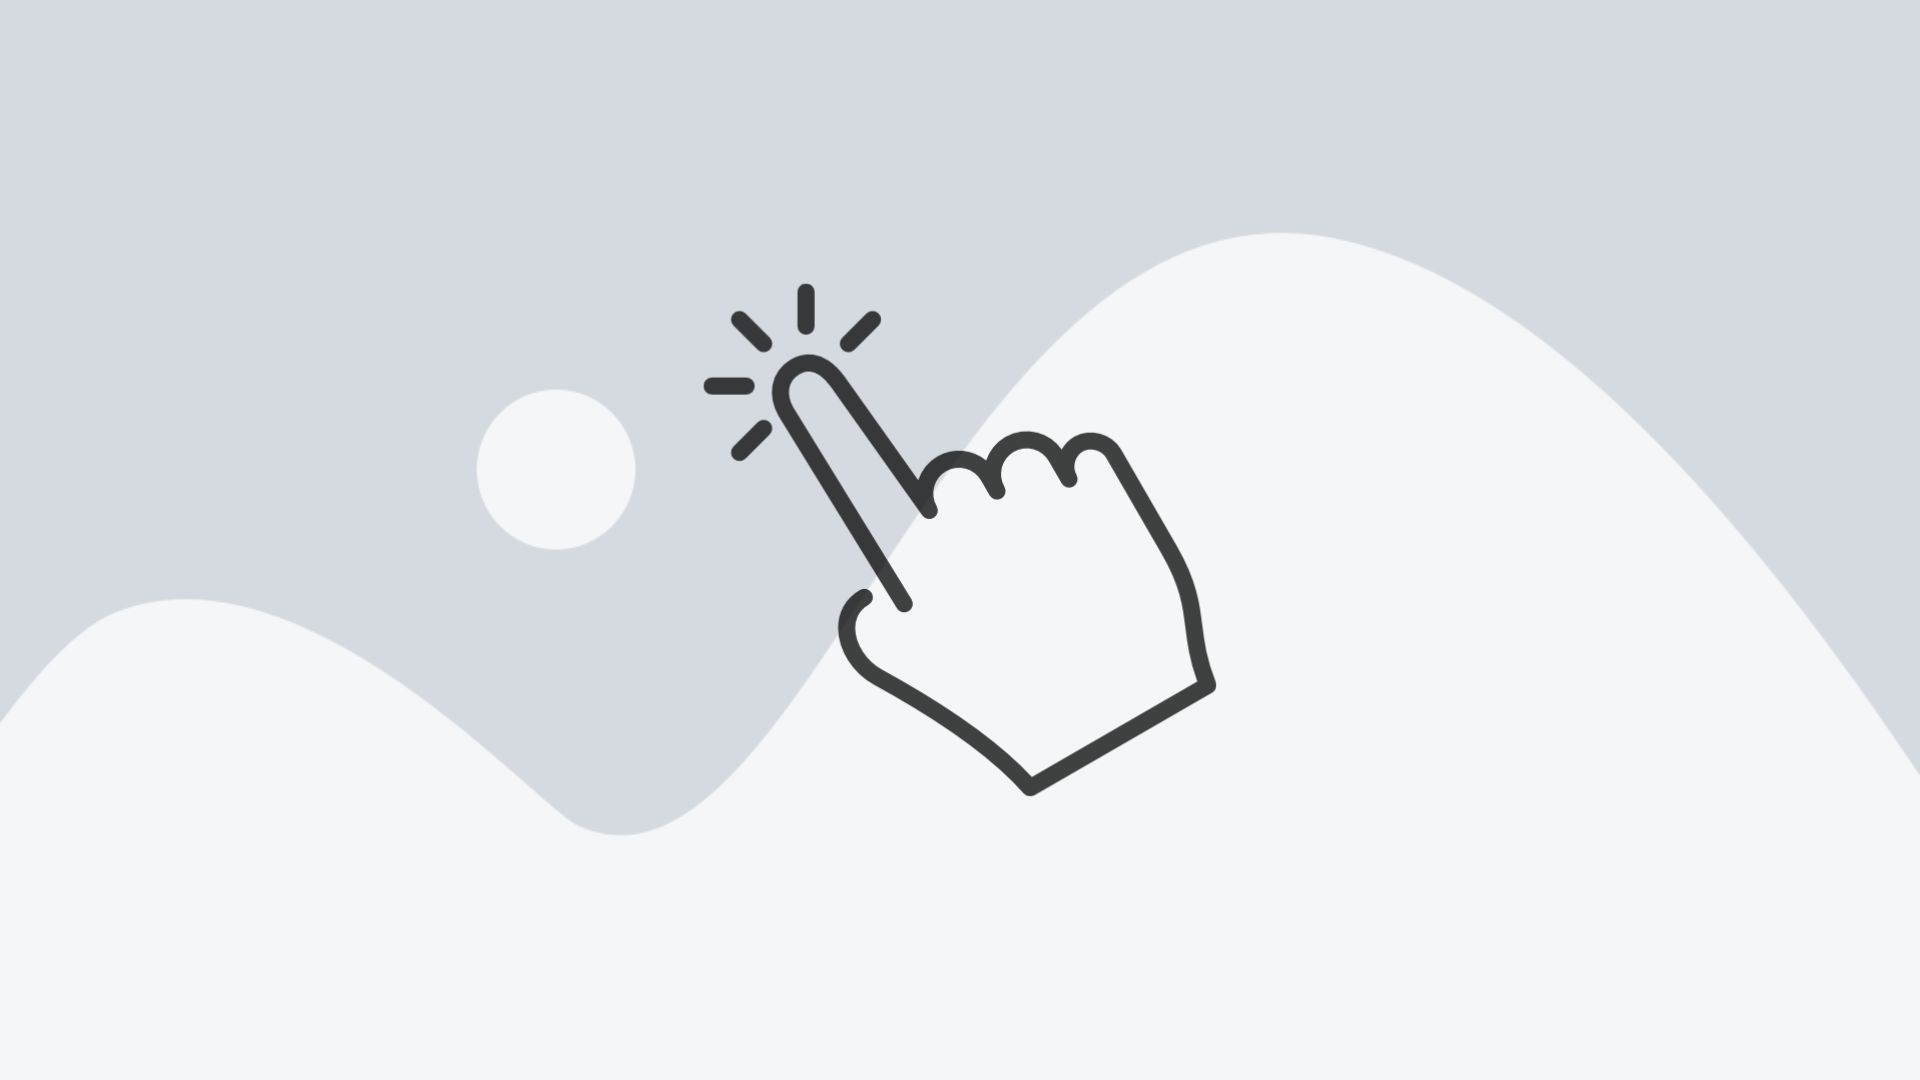
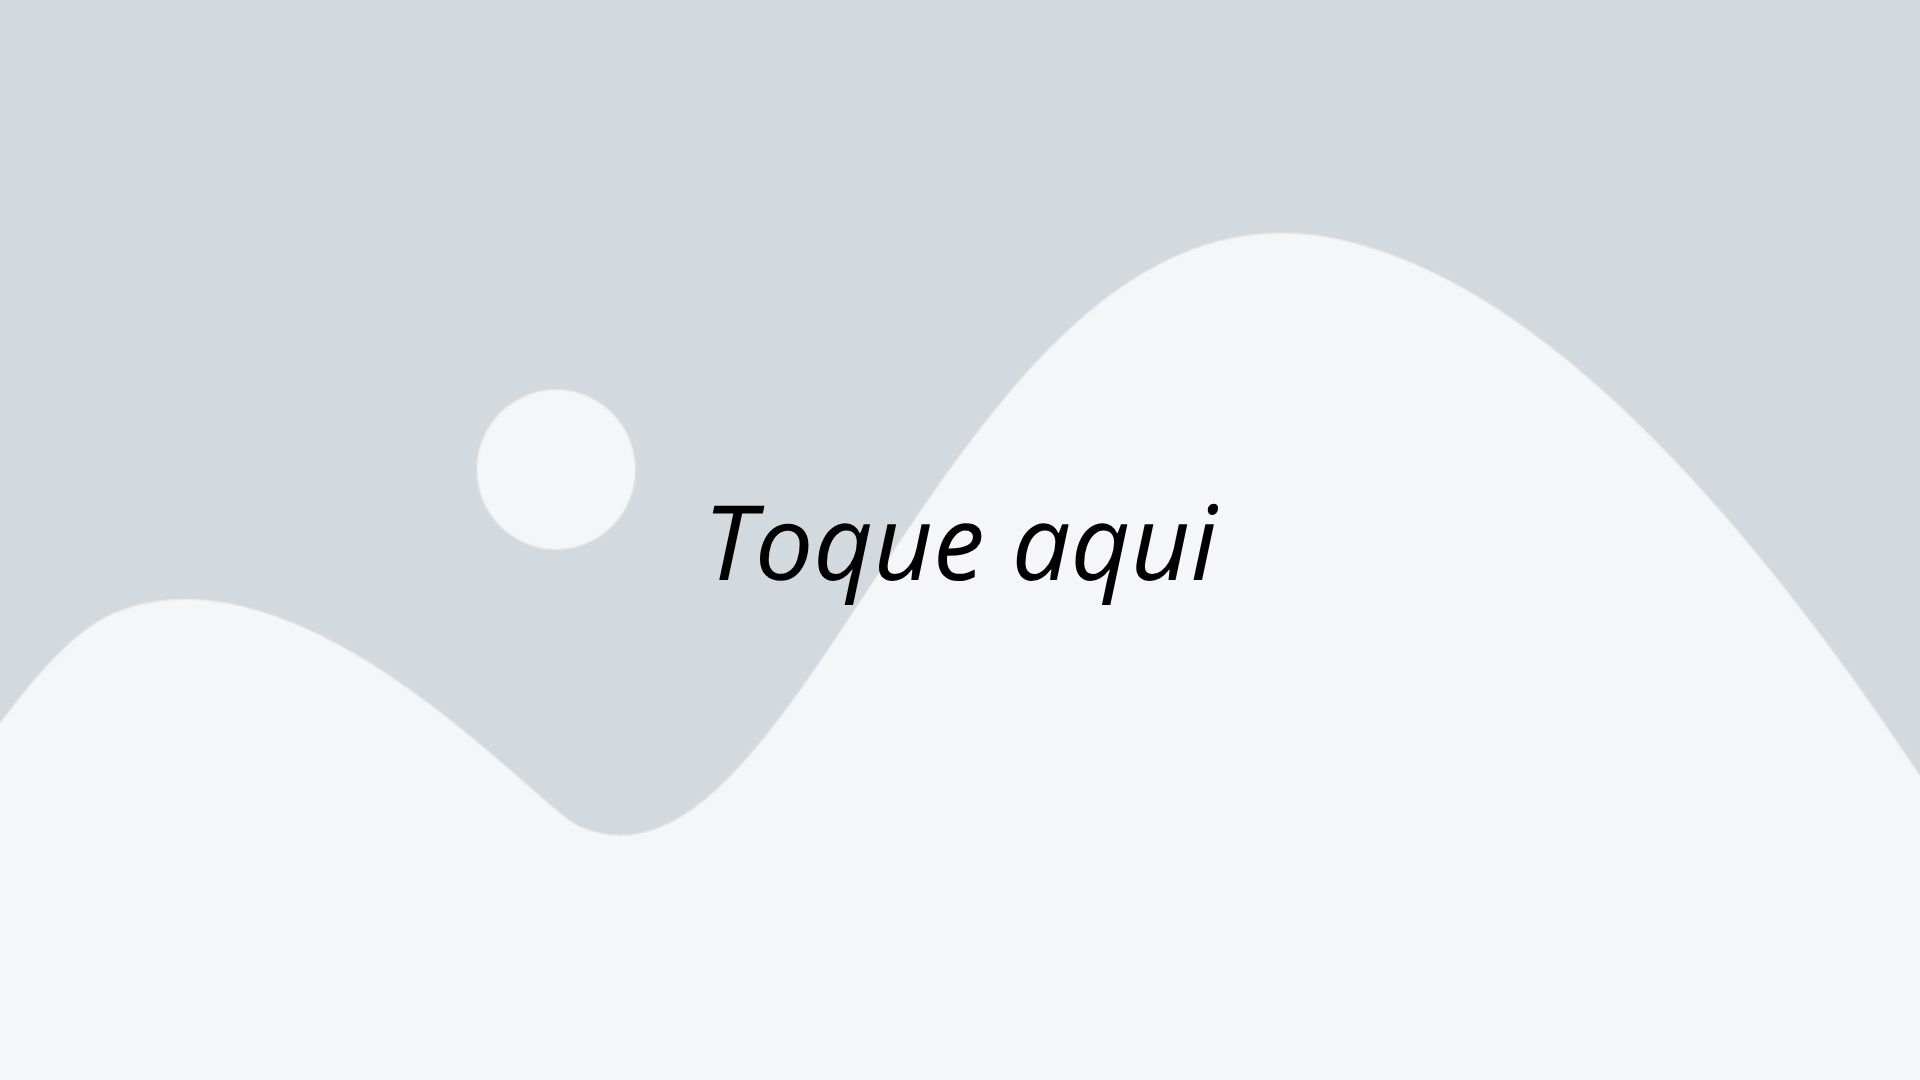
improve layout

diff --git a/src/screens/ChooseTemplateScreen.tsx b/src/screens/ChooseTemplateScreen.tsx
@@ -1,6 +1,7 @@
 import React from 'react';
 import { useRoute, useFocusEffect } from "@react-navigation/native";
 import { View, FlatList, Image, TouchableOpacity, StyleSheet, Text } from 'react-native';
+import { LinearGradient } from "expo-linear-gradient";
 import { useState } from 'react';
 import AsyncStorage from '@react-native-async-storage/async-storage';
 
@@ -30,7 +31,7 @@ export default function ChooseTemplateScreen({ navigation }: any) {
 
 
     const renderItem = ({ item, index }: { item: typeof templateImages[0], index: number }) => (
-        <TouchableOpacity onPress={() => handlePress(item.id)} style={styles.imageContainer}>
+        <TouchableOpacity onPress={() => handlePress(item.id)} style={styles.imageContainer} activeOpacity={0.75}>
             <Image source={item.source} style={styles.image} resizeMode='contain' />
         </TouchableOpacity>
     );
@@ -47,23 +48,35 @@ export default function ChooseTemplateScreen({ navigation }: any) {
     );
 
     return (
-        <View style={styles.container}>
-            <View style={styles.spacer} />
-            <TouchableOpacity onPress={goToEditProfile} style={styles.profileButton}>
-                {profileImage ? (
-                    <Image source={{ uri: profileImage }} style={styles.profilePic} />
-                ) : (
-                    <Text style={styles.profileText}>+</Text>
-                )}
-            </TouchableOpacity>
-            <FlatList
-                data={templateImages.filter(Boolean)} // remove nulls
-                renderItem={renderItem}
-                keyExtractor={(_, index) => index.toString()}
-                numColumns={1}
-                contentContainerStyle={{ paddingBottom: 20 }}
-            />
-        </View>
+        <LinearGradient
+            colors={["#eff6ff", "#e0e7ff"]}
+            start={{ x: 0, y: 0 }}
+            end={{ x: 0, y: 1 }}
+            style={styles.container}
+        >
+            <View >
+                <View style={styles.spacer} />
+                <TouchableOpacity onPress={goToEditProfile} style={styles.profileButton}>
+                    <LinearGradient
+                        colors={["#3b82f6", "#9333ea"]}
+                        style={StyleSheet.absoluteFillObject}
+                    />
+                    {profileImage ? (
+                        <Image source={{ uri: profileImage }} style={styles.profilePic} />
+                    ) : (
+                        <Text style={styles.profileText}>+</Text>
+                    )}
+                </TouchableOpacity>
+
+                <FlatList
+                    data={templateImages.filter(Boolean)} // remove nulls
+                    renderItem={renderItem}
+                    keyExtractor={(_, index) => index.toString()}
+                    numColumns={1}
+                    contentContainerStyle={{ paddingBottom: 80, paddingTop: 20 }}
+                />
+            </View>
+        </LinearGradient>
     );
 }
 
@@ -71,27 +84,34 @@ const styles = StyleSheet.create({
     container: {
         flex: 1,
         padding: 10,
-        backgroundColor: '#fff',
+        // backgroundColor: '#fff',
     },
     spacer: {
         paddingTop: 30,
     },
     imageContainer: {
         flex: 1,
-        margin: 5,
-        borderRadius: 10,
+        margin: 12,
+        borderRadius: 16,
         overflow: 'hidden',
+        backgroundColor: "#fff",
+        shadowColor: "#000",
+        shadowOpacity: 0.1,
+        shadowRadius: 6,
+        shadowOffset: { width: 0, height: 3 },
+        elevation: 4,
     },
     image: {
-        width: '100%',
+        width: "100%",
         height: 450,
+        borderRadius: 16,
     },
     profileImage: {
         width: 100,
         height: 100,
         borderRadius: 50,
         marginTop: 10,
-        resizeMode: "cover",
+        resizeMode: "contain",
         shadowOpacity: 0.3,
         shadowRadius: 6,
         elevation: 8,
@@ -104,7 +124,7 @@ const styles = StyleSheet.create({
         width: 100,
         height: 100,
         borderRadius: 50,
-        resizeMode: "cover",
+        resizeMode: "contain",
     },
     profileButton: {
         position: "absolute",

diff --git a/App.tsx b/App.tsx
@@ -13,13 +13,55 @@ import SoldOutDaysScreen from './src/screens/templates/SoldOutDaysScreen';
 import QuadrantScreen from './src/screens/templates/QuadrantScreen';
 import QuadrantSquareScreen from './src/screens/templates/QuadrantSquareScreen';
 import ThreeMainImageScreen from './src/screens/templates/ThreeMainImageScreen';
+import Toast from 'react-native-toast-message';
 // import { ProfileProvider } from './src/context/ProfileContext';
 
 const Stack = createStackNavigator<RootStackParamList>();
 const Drawer = createDrawerNavigator();
 
+// export default function App() {
+//   return (
+//     <>
+//       <NavigationContainer>
+//         <Stack.Navigator
+//           initialRouteName="SignUpScreen"
+//           screenOptions={{ headerBackTitle: "" }}
+//         >
+//           <Stack.Screen
+//             name="SignUpScreen"
+//             component={SignUpScreen}
+//             options={{ headerShown: false }}
+//           />
+//           <Stack.Screen
+//             name="ProfileScreen"
+//             component={ProfileScreen}
+//             options={{ headerTitle: "Editar Perfil" }}
+//           />
+//           <Stack.Screen
+//             name="ChooseTemplate"
+//             component={ChooseTemplateScreen}
+//             options={{ headerTitle: "Escolha o template" }}
+//           />
+//           <Stack.Screen name="PropertyForm" component={PropertyFormScreen} />
+//           <Stack.Screen name="PreviewScreen" component={PreviewScreen} />
+//           <Stack.Screen name="SoldOutDays" component={SoldOutDaysScreen} />
+//           <Stack.Screen name="Quadrant" component={QuadrantScreen} />
+//           <Stack.Screen name="QuadrantSquare" component={QuadrantSquareScreen} />
+//           <Stack.Screen name="ThreeMainImage" component={ThreeMainImageScreen} />
+//           <Stack.Screen name="RenderTemplate" component={RenderTemplateScreen} />
+//         </Stack.Navigator>
+//       </NavigationContainer>
+
+//       {/* Toast precisa estar FORA do NavigationContainer */}
+//       <Toast />
+//     </>
+//   );
+// }
+
+
 export default function App() {
   return (
+    <>
     <NavigationContainer>
       <Stack.Navigator initialRouteName="SignUpScreen" screenOptions={{ headerBackTitle: "" }}>
         <Stack.Screen name="SignUpScreen" component={SignUpScreen} options={{ headerShown: false }} />
@@ -35,6 +77,8 @@ export default function App() {
         <Stack.Screen name="RenderTemplate" component={RenderTemplateScreen} options={{ headerTitle: "" }} />
       </Stack.Navigator>
     </NavigationContainer>
+    <Toast />
+    </>
   );
 }
 

diff --git a/src/screens/templates/ThreeMainImageScreen.tsx b/src/screens/templates/ThreeMainImageScreen.tsx
@@ -150,7 +150,7 @@ export default function ThreeMainImageScreen({ navigation }) {
 
         {/* Abaixo das imagens: preço à esquerda + dados do imóvel à direita */}
         <View style={styles.bottomInfoRow}>
-          <Text style={styles.priceText}>R$ {formData.valor}</Text>
+          <Text style={styles.priceText}>{formData.valor}</Text>
           <Text style={styles.customText}>{formData.textoCustomizado}</Text>
         </View>
 
@@ -161,7 +161,7 @@ export default function ThreeMainImageScreen({ navigation }) {
           )}
           <View style={styles.userInfo}>
             <Text style={styles.userName}>{nome}</Text>
-            <Text style={styles.userCreci}>CRECI {creci}</Text>
+            <Text style={styles.userCreci}>CRECI: {creci}</Text>
             <Text style={styles.userCreci}>{celular}</Text>
           </View>
           {/* Logo no canto inferior direito */}
@@ -220,9 +220,7 @@ const styles = StyleSheet.create({
   },
   imagesRow: {
     flexDirection: 'row',
-    // flex: 1,
     height: '65%',
-    marginTop: 16
   },
   imageMain: {
     flex: 2,
@@ -243,12 +241,12 @@ const styles = StyleSheet.create({
   },
   bottomInfoRow: {
     flexDirection: 'row',
-    justifyContent: 'space-between',
+    justifyContent: 'flex-end',
     paddingHorizontal: 5,
     marginTop: 5,
   },
   priceText: {
-    fontSize: 18,
+    fontSize: 16,
     fontFamily: 'serif',
     fontWeight: '400',
     letterSpacing: 1.5,
@@ -281,17 +279,19 @@ const styles = StyleSheet.create({
   userInfo: {
     flex: 1,
     marginLeft: 10,
+    marginTop: 6
   },
   userName: {
     fontSize: 14,
-    fontWeight: '500',
+    fontWeight: '400',
     color: '#192847'
   },
   userCreci: {
     fontSize: 12,
     marginTop: 3,
     fontWeight: '300',
-    color: '#555'
+    color: '#555',
+    marginTop: 1
   },
   logoBottom: {
     width: 40,

diff --git a/src/screens/templates/PreviewScreen.tsx b/src/screens/templates/PreviewScreen.tsx
@@ -7,6 +7,7 @@ import AsyncStorage from '@react-native-async-storage/async-storage';
 import { captureScreen } from "react-native-view-shot";
 import * as FileSystem from "expo-file-system";
 import * as Sharing from "expo-sharing";
+import Toast from 'react-native-toast-message';
 
 const { width } = Dimensions.get('window');
 const postHeight = width * 5 / 4;
@@ -32,6 +33,15 @@ export default function PreviewScreen({ navigation }: any) {
     }, []);
 
     useEffect(() => {
+
+        Toast.show({
+            type: 'info',
+            text1: 'Dica 👇',
+            text2: 'Toque na tela para escolher uma foto da galeria',
+            position: 'bottom',
+            visibilityTime: 6000,
+        });
+
         const loadUserData = async () => {
             const savedNome = await AsyncStorage.getItem("nome");
             const savedCreci = await AsyncStorage.getItem("creci");
@@ -285,12 +295,12 @@ const styles = StyleSheet.create({
         marginBottom: 2,
     },
     userCreci: {
-        fontSize: 12,
+        fontSize: 10,
         fontWeight: '400',
         color: '#fff',
     },
     userPhone: {
-        fontSize: 14,
+        fontSize: 12,
         fontWeight: '400',
         color: '#fff',
     },
@@ -310,11 +320,11 @@ const styles = StyleSheet.create({
         alignSelf: 'center',
     },
     logoImageBase: {
-        width: 150,           // tamanho da logo
-        height: 80,
+        width: 120,           // tamanho da logo
+        height: 60,
         marginTop: 8,        // espaço acima da logo
         alignSelf: 'center', // ou 'center' se quiser centralizar
-        borderRadius: 8
+        borderRadius: 2
     }
 
 });

diff --git a/src/screens/templates/QuadrantSquareScreen.tsx b/src/screens/templates/QuadrantSquareScreen.tsx
@@ -139,7 +139,7 @@ export default function QuadrantScreen({navigation}) {
                             <Ionicons name="location-outline" size={16} color="#192847" />
                             <Text style={styles.locationText}>{formData.bairro}</Text>
                         </View>
-                        <Text style={styles.priceText}>R$ {formData.valor}</Text>
+                        <Text style={styles.priceText}>{formData.valor}</Text>
                     </View>
 
                     {/* 2º quadrado */}
@@ -170,7 +170,7 @@ export default function QuadrantScreen({navigation}) {
                 {/* dados do usuário */}
                 <View style={styles.userInfo}>
                     <Text style={styles.userName}>{nome}</Text>
-                    <Text style={styles.userCreci}>CRECI {creci}</Text>
+                    <Text style={styles.userCreci}>CRECI: {creci}</Text>
                     <Text style={styles.userCreci}>{celular}</Text>
                 </View>
 
@@ -263,15 +263,17 @@ const styles = StyleSheet.create({
         position: 'absolute',
         bottom: 20,
         width: '100%',
+        left: 20
     },
     userName: {
-        fontSize: 16,
-        fontWeight: 'bold',
-        color: '#192847'
+        fontSize: 13,
+        fontWeight: '400',
+        textTransform: 'uppercase',
+        color: '#192847',
     },
     userCreci: {
-        fontSize: 14,
-        color: '#555'
+        fontSize: 12,
+        color: '#555',
     },
     profilePic: {
         position: 'absolute',
